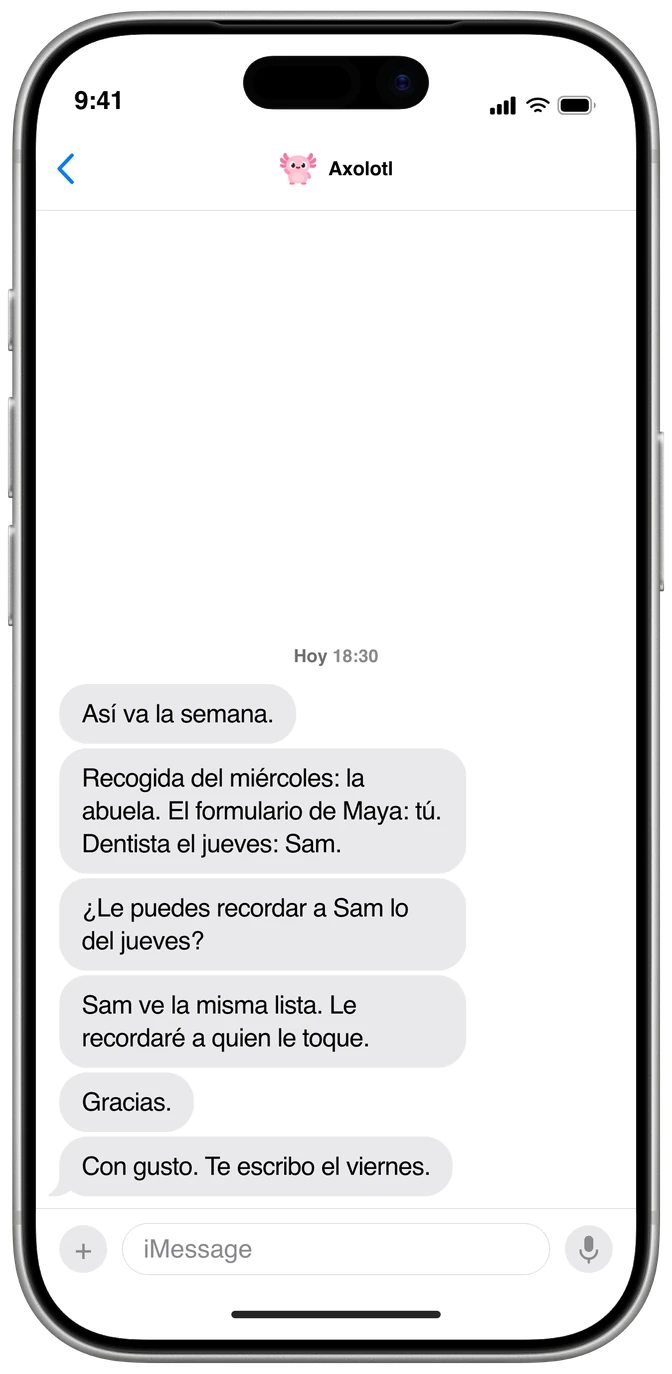
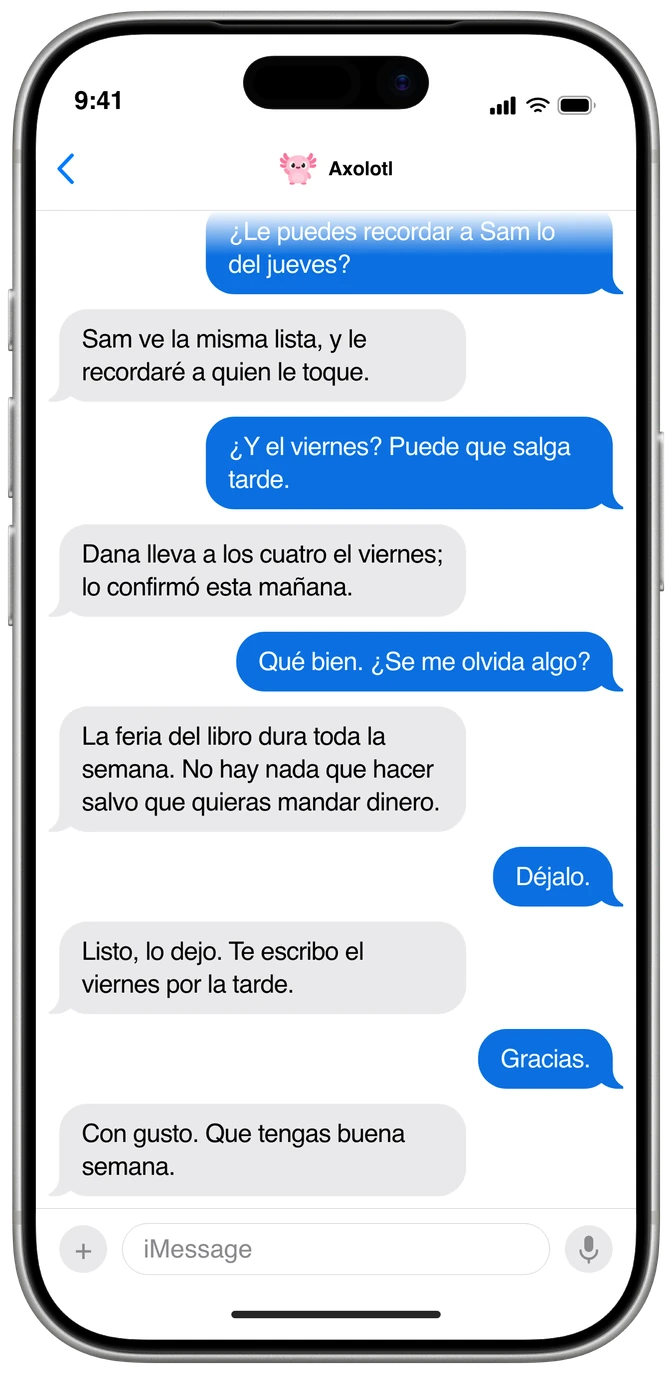
feat(site): fill every phone with a longer thread, anchored like a real chat
Short threads sat at the bottom with white space above them. Now every
conversation is longer than the glass: it is anchored at the bottom, so the
OLDEST messages are the ones off-screen, and the top edge is feathered so the
cut reads as a conversation continuing above rather than a clipped bubble.

The build's fit gate is inverted to match: it used to fail on overflow, and
now fails when a thread is too SHORT to fill the screen.

Every thread roughly doubles in length, and the parent now drives each one —
asking, deciding, and answering — with Axolotl doing the work.

Also fixes a real direction bug this surfaced: the hero and week threads
write outgoing turns as `{ out: 'text' }`, but the renderer only tested
`out === true`, so the parent's own replies rendered grey and left-aligned
instead of blue and right. All three outgoing shapes now read correctly.

Regenerate the four pages, all ten device renders and the lock file.

diff --git a/public/es.html b/public/es.html
@@ -75,7 +75,7 @@
           <div class="hero-phone-wrap">
             <img
               class="hero-phone"
-              src="/hero-phone-es.webp?v=c1bab12ebd94290a"
+              src="/hero-phone-es.webp?v=7142ff964b1a324e"
               width="328"
               height="670"
               alt="Conversación de texto en un teléfono. Axolotl dice que llegaron ocho correos y que dos cosas necesitan a la familia. La familia, en juntas todo el día, le pide a Axolotl que se encargue. Axolotl llenó el formulario de excursión de Maya y lo envía con el visto bueno de la familia, luego confirma que Lincoln lo tiene, referencia K-1042, y que la abuela cubre la salida temprana del miércoles."
@@ -124,10 +124,10 @@
             <h3>Días libres y salidas tempranas</h3>
             <img
               class="week-shot"
-              src="/week-1-es.webp?v=c1bab12ebd94290a"
+              src="/week-1-es.webp?v=7142ff964b1a324e"
               width="336"
               height="687"
-              alt="Una conversación de texto con Axolotl: Días libres y salidas tempranas. Axolotl: Salió el calendario del distrito. Hay una cosa que necesita tu atención. Axolotl: El miércoles la salida es a la 1:20: los niños salen tres horas antes. Tú: Ese día tengo reuniones hasta las 3. Axolotl: La abuela está libre. ¿Quieres que le pregunte? Tú: Sí, por favor. Axolotl: Dijo que sí. Leo está cubierto el miércoles a la 1:20. Esperando tu sí"
+              alt="Una conversación de texto con Axolotl: Días libres y salidas tempranas. Axolotl: Salió el calendario del distrito. El miércoles la salida es a la 1:20. Tú: No puedo recogerlos, tengo reuniones hasta las 3. Axolotl: La abuela está libre. ¿Quieres que le pregunte? Tú: Sí, por favor. Axolotl: Dijo que sí. Leo está cubierto el miércoles a la 1:20. Tú: ¿Y Maya? Está en el otro plantel. Axolotl: Le pregunté a Dana: puede recoger a Maya de camino. Tú: Perfecto. Gracias. Axolotl: Los dos nombres están en la lista de recogida y la oficina ya sabe. Tú: ¿Eso cubre también el jueves? Axolotl: El jueves es un día normal. Estás libre hasta el viernes. Esperando tu sí"
               loading="lazy"
               decoding="async"
             />
@@ -136,10 +136,10 @@
             <h3>Cambios del mismo día</h3>
             <img
               class="week-shot"
-              src="/week-2-es.webp?v=c1bab12ebd94290a"
+              src="/week-2-es.webp?v=7142ff964b1a324e"
               width="336"
               height="687"
-              alt="Una conversación de texto con Axolotl: Cambios del mismo día. Axolotl: Lincoln acaba de escribir. Hoy salen al mediodía. Axolotl: Faltan doce minutos. Tú: No puedo salir. Tengo reuniones hasta las 3. Axolotl: La abuela es la primera en tu lista de respaldo. ¿Quieres que le pregunte? Tú: Sí, por favor. Axolotl: Ya los tiene. Le avisé a la oficina que están cubiertos. Esperando tu sí"
+              alt="Una conversación de texto con Axolotl: Cambios del mismo día. Axolotl: Lincoln acaba de escribir. Hoy salen al mediodía. Axolotl: Faltan doce minutos. Tú: No puedo salir. Tengo reuniones hasta las 3. Axolotl: La abuela es la primera en tu lista de respaldo. ¿Quieres que le pregunte? Tú: Sí, por favor, ya. Axolotl: Ya los tiene. Le avisé a la oficina que están cubiertos. Tú: ¿Le dijiste a Leo? Axolotl: Le escribí a su maestra. Ella lo lleva a la oficina al mediodía. Tú: Gracias. Qué rápido. Axolotl: La abuela te escribe cuando estén en casa. Axolotl: Voy a seguir los mensajes de la escuela por si algo más se mueve. Esperando tu sí"
               loading="lazy"
               decoding="async"
             />
@@ -148,10 +148,10 @@
             <h3>Los pendientes pequeños</h3>
             <img
               class="week-shot"
-              src="/week-3-es.webp?v=c1bab12ebd94290a"
+              src="/week-3-es.webp?v=7142ff964b1a324e"
               width="336"
               height="687"
-              alt="Una conversación de texto con Axolotl: Los pendientes pequeños. Axolotl: Tres cosas esta semana. Axolotl: El jueves es el día de pijama, el formulario de la excursión vence el viernes, y Leo necesita una nota de ausencia. Tú: El lunes tiene dentista en la mañana. Axolotl: La nota de ausencia está lista y el formulario está lleno. Responde SÍ para enviar los dos. Tú: Sí Axolotl: Los dos enviados. La oficina confirmó. Esperando tu sí"
+              alt="Una conversación de texto con Axolotl: Los pendientes pequeños. Axolotl: Tres cosas esta semana: el jueves es el día de pijama, el formulario de la excursión vence el viernes, y Leo necesita una nota de ausencia. Tú: El lunes tiene dentista en la mañana. Axolotl: Entonces escribo la nota de ausencia para el lunes y lleno el formulario. Tú: ¿Necesitas algo de mí? Axolotl: Solo un sí. Lo demás ya lo tengo. Axolotl: Listo para enviar: la nota de ausencia y el formulario de Maya. Tú: Sí Axolotl: Los dos enviados. La oficina confirmó que los tiene. Tú: ¿Y el día de pijama? Axolotl: Nada que hacer: solo va en pijama. Te recuerdo el jueves en la mañana. Esperando tu sí"
               loading="lazy"
               decoding="async"
             />
@@ -160,10 +160,10 @@
             <h3>Quién se encarga</h3>
             <img
               class="week-shot"
-              src="/week-4-es.webp?v=c1bab12ebd94290a"
+              src="/week-4-es.webp?v=7142ff964b1a324e"
               width="336"
               height="687"
-              alt="Una conversación de texto con Axolotl: Quién se encarga. Axolotl: Así va la semana. Axolotl: Recogida del miércoles: la abuela. El formulario de Maya: tú. Dentista el jueves: Sam. Tú: ¿Le puedes recordar a Sam lo del jueves? Axolotl: Sam ve la misma lista. Le recordaré a quien le toque. Tú: Gracias. Axolotl: Con gusto. Te escribo el viernes. Recordatorio puesto"
+              alt="Una conversación de texto con Axolotl: Quién se encarga. Axolotl: Así va la semana. Axolotl: Recogida del miércoles: la abuela. El formulario de Maya: tú. Dentista el jueves: Sam. Tú: ¿Le puedes recordar a Sam lo del jueves? Axolotl: Sam ve la misma lista, y le recordaré a quien le toque. Tú: ¿Y el viernes? Puede que salga tarde. Axolotl: Dana lleva a los cuatro el viernes; lo confirmó esta mañana. Tú: Qué bien. ¿Se me olvida algo? Axolotl: La feria del libro dura toda la semana. No hay nada que hacer salvo que quieras mandar dinero. Tú: Déjalo. Axolotl: Listo, lo dejo. Te escribo el viernes por la tarde. Tú: Gracias. Axolotl: Con gusto. Que tengas buena semana. Recordatorio puesto"
               loading="lazy"
               decoding="async"
             />
@@ -245,7 +245,7 @@
           <div class="phone-tilt">
             <img
               class="phone-shot"
-              src="/phone-es.webp?v=c1bab12ebd94290a"
+              src="/phone-es.webp?v=7142ff964b1a324e"
               width="328"
               height="670"
               alt="Conversación de texto en un teléfono: Axolotl dice que Leo necesita un examen físico y uno dental antes del 15 de octubre. La familia le pide que se encargue. Axolotl encuentra una cita en la red, llena los dos formularios y muestra los datos listos para enviar. La familia responde Sí, y Axolotl confirma que la Primaria Lincoln lo aceptó, referencia K-1042."
@@ -315,7 +315,7 @@
           <figure class="circles-shot">
             <img
               class="phone-shot"
-              src="/circles-es.webp?v=c1bab12ebd94290a"
+              src="/circles-es.webp?v=7142ff964b1a324e"
               width="328"
               height="670"
               alt="Ejemplo de chat grupal en Mensajes. La familia dice que los dos están atorados el miércoles por la salida temprana y pide ayuda. Axolotl reporta que Dana está libre el miércoles y puede llevar a los cuatro niños; Dana acepta si alguien cubre su recogida del viernes, Sam toma el viernes, y Axolotl confirma el plan: Dana el miércoles, Sam el viernes."

diff --git a/public/index.html b/public/index.html
@@ -75,7 +75,7 @@
           <div class="hero-phone-wrap">
             <img
               class="hero-phone"
-              src="/hero-phone-en.webp?v=c1bab12ebd94290a"
+              src="/hero-phone-en.webp?v=7142ff964b1a324e"
               width="328"
               height="670"
               alt="Text thread on a phone. Axolotl says eight school emails came in and two things need the parent. The parent, in meetings all day, asks Axolotl to deal with them. Axolotl has filled in Maya’s field trip form and sends it on the parent’s go-ahead, then confirms Lincoln has it, reference K-1042, and that Grandma is covering Wednesday’s early release."
@@ -124,10 +124,10 @@
             <h3>Days off and early releases</h3>
             <img
               class="week-shot"
-              src="/week-1-en.webp?v=c1bab12ebd94290a"
+              src="/week-1-en.webp?v=7142ff964b1a324e"
               width="336"
               height="687"
-              alt="A text conversation with Axolotl: Days off and early releases. Axolotl: The district calendar came out. One thing in it needs you. Axolotl: Wednesday is early release at 1:20 — the kids are out three hours early. You: I have meetings until 3 that day. Axolotl: Grandma is free. Want me to ask her? You: Please. Axolotl: She said yes. Leo is covered at 1:20 on Wednesday. Waiting for your yes"
+              alt="A text conversation with Axolotl: Days off and early releases. Axolotl: The district calendar came out. Wednesday is early release at 1:20. You: I can’t get them — I’m in meetings until 3. Axolotl: Grandma is free. Want me to ask her? You: Please. Axolotl: She said yes. Leo is covered at 1:20 on Wednesday. You: What about Maya? She’s at the other campus. Axolotl: I asked Dana — she can pick Maya up on her way. You: Perfect. Thank you. Axolotl: Both names are on the pickup list and the office knows. You: Does that cover Thursday too? Axolotl: Thursday is a normal day. You’re clear until Friday. Waiting for your yes"
               loading="lazy"
               decoding="async"
             />
@@ -136,10 +136,10 @@
             <h3>Same-day changes</h3>
             <img
               class="week-shot"
-              src="/week-2-en.webp?v=c1bab12ebd94290a"
+              src="/week-2-en.webp?v=7142ff964b1a324e"
               width="336"
               height="687"
-              alt="A text conversation with Axolotl: Same-day changes. Axolotl: Lincoln just texted. Dismissal at noon today. Axolotl: That’s twelve minutes from now. You: I can’t leave, I’m in meetings until 3. Axolotl: Grandma is first on your backup list. Want me to ask her? You: Yes, please. Axolotl: She’s got them. I told the office they’re covered. Waiting for your yes"
+              alt="A text conversation with Axolotl: Same-day changes. Axolotl: Lincoln just texted. Dismissal at noon today. Axolotl: That’s twelve minutes from now. You: I can’t leave. I’m in meetings until 3. Axolotl: Grandma is first on your backup list. Want me to ask her? You: Yes, please — go. Axolotl: She’s got them. I told the office the kids are covered. You: Did you tell Leo? Axolotl: I texted his teacher. She’ll walk him to the office at noon. You: Thank you. That was fast. Axolotl: Grandma will text you when they’re home. Axolotl: I’ll keep an eye on the school’s messages in case anything else moves. Waiting for your yes"
               loading="lazy"
               decoding="async"
             />
@@ -148,10 +148,10 @@
             <h3>The small asks</h3>
             <img
               class="week-shot"
-              src="/week-3-en.webp?v=c1bab12ebd94290a"
+              src="/week-3-en.webp?v=7142ff964b1a324e"
               width="336"
               height="687"
-              alt="A text conversation with Axolotl: The small asks. Axolotl: Three things this week. Axolotl: Pajama day Thursday, the field trip form due Friday, and Leo needs an absence note. You: He has a dentist appointment Monday morning. Axolotl: The absence note is drafted and the form is filled in. Reply YES to send both. You: Yes Axolotl: Both sent. The office confirmed. Waiting for your yes"
+              alt="A text conversation with Axolotl: The small asks. Axolotl: Three things this week: pajama day Thursday, the field trip form due Friday, and Leo needs an absence note. You: He has a dentist appointment Monday morning. Axolotl: Then I’ll write the absence note for Monday and fill in the form. You: Do you need anything from me? Axolotl: Just a yes. Everything else I have. Axolotl: Ready to send: the absence note and Maya’s field trip form. You: Yes Axolotl: Both sent. The office confirmed they have them. You: What about pajama day? Axolotl: Nothing to do — he just wears pajamas. I’ll remind you Thursday morning. Waiting for your yes"
               loading="lazy"
               decoding="async"
             />
@@ -160,10 +160,10 @@
             <h3>Who&#39;s got it</h3>
             <img
               class="week-shot"
-              src="/week-4-en.webp?v=c1bab12ebd94290a"
+              src="/week-4-en.webp?v=7142ff964b1a324e"
               width="336"
               height="687"
-              alt="A text conversation with Axolotl: Who&#39;s got it. Axolotl: Here’s who’s on what this week. Axolotl: Wednesday pickup: Grandma. Maya’s form: you. Dentist Thursday: Sam. You: Can you remind Sam about Thursday? Axolotl: Sam sees the same list. I’ll remind whoever’s on it. You: Thank you. Axolotl: Happy to. I’ll check in Friday. Reminder set"
+              alt="A text conversation with Axolotl: Who&#39;s got it. Axolotl: Here’s who’s on what this week. Axolotl: Wednesday pickup: Grandma. Maya’s form: you. Dentist Thursday: Sam. You: Can you remind Sam about Thursday? Axolotl: Sam sees the same list, and I’ll remind whoever’s on it. You: What about Friday? I might be late. Axolotl: Dana has all four on Friday — she confirmed this morning. You: Great. Anything I’m forgetting? Axolotl: The book fair runs all week. No action unless you want to send money. You: Skip it. Axolotl: Skipped. I’ll check in Friday afternoon. You: Thanks. Axolotl: Anytime. Have a good week. Reminder set"
               loading="lazy"
               decoding="async"
             />
@@ -245,7 +245,7 @@
           <div class="phone-tilt">
             <img
               class="phone-shot"
-              src="/phone-en.webp?v=c1bab12ebd94290a"
+              src="/phone-en.webp?v=7142ff964b1a324e"
               width="328"
               height="670"
               alt="Text conversation on a phone: Axolotl says Leo needs a physical and a dental check on file by October 15. The parent asks Axolotl to sort it out. Axolotl finds an in-network appointment, fills in both forms, and shows the ready-to-send details. The parent replies Yes, and Axolotl confirms Lincoln Elementary accepted it, reference K-1042."
@@ -315,7 +315,7 @@
           <figure class="circles-shot">
             <img
               class="phone-shot"
-              src="/circles-en.webp?v=c1bab12ebd94290a"
+              src="/circles-en.webp?v=7142ff964b1a324e"
               width="328"
               height="670"
               alt="Example group chat in the Messages app. The parent says they are both stuck on Wednesday&#39;s early release and asks for help. Axolotl reports that Dana is free Wednesday and can take all four kids; Dana agrees if someone covers her Friday pickup, Sam takes Friday, and Axolotl confirms the plan — Dana Wednesday, Sam Friday."

diff --git a/tools/site/phone-screen.html b/tools/site/phone-screen.html
@@ -138,10 +138,15 @@
 
       /* ── thread ─────────────────────────────────────────────────────────── */
       .thread {
+        position: relative;
         flex: 1 1 auto;
         min-height: 0;
         display: flex;
         flex-direction: column;
+        /* A real conversation is anchored at the bottom: when it is taller than
+           the glass, the OLDEST messages are the ones off-screen, clipped above
+           the top edge rather than leaving a white gap below the header. */
+        justify-content: flex-end;
         gap: 10px;
         margin: 0;
         padding: 12px 16px 8px;
@@ -149,10 +154,18 @@
         overflow: hidden;
       }
 
-      /* A conversation shorter than the screen sits at the bottom, just above the
-         composer, the way iOS anchors it. */
-      .thread > :first-child {
-        margin-top: auto;
+      /* The cut at the top edge is feathered, so a clipped bubble reads as a
+         conversation continuing above rather than a rendering artifact. */
+      .thread::before {
+        content: "";
+        position: absolute;
+        top: 0;
+        left: 0;
+        right: 0;
+        height: 30px;
+        z-index: 2;
+        pointer-events: none;
+        background: linear-gradient(to bottom, #fff 0%, rgba(255, 255, 255, 0) 100%);
       }
 
       .meta {
@@ -427,10 +440,19 @@
         return el;
       };
 
+      // Outgoing turns are written three ways across the strings: `{ out: 'text' }`
+      // in the hero and the week threads, `{ kind: 'out', text }` in the consent
+      // loop, and `{ from: 'You', out: true, text }` in the group chat. All three
+      // have to read as the parent's blue, right-aligned bubble.
+      const isOutTurn = (turn) =>
+        turn.kind === 'out' ||
+        turn.out === true ||
+        (turn.in === undefined && typeof turn.out === 'string');
+
       // One turn -> one row. `from` is set only in a group chat, where an
       // incoming message carries the sender's name and initials.
       const turnRow = (turn, from) => {
-        const out = turn.out === true || turn.kind === 'out';
+        const out = isOutTurn(turn);
         const text = turn.text ?? turn.in ?? turn.out ?? '';
         const li = document.createElement('li');
         li.className = `row ${out ? 'out' : 'in'}`;
@@ -454,7 +476,7 @@
 
       const renderThread = (items, { group = false } = {}) => {
         for (const turn of items) {
-          const out = turn.out === true || turn.kind === 'out';
+          const out = isOutTurn(turn);
           thread.append(turnRow(turn, group && !out ? (turn.from ?? 'Axolotl') : undefined));
         }
       };
@@ -506,10 +528,10 @@
         }
       });
 
-      // Report whether the staged thread fits the screen. The build fails on
-      // overflow rather than shipping a clipped screenshot. The height is the
-      // sum of the children rather than scrollHeight: the auto margin that
-      // bottom-anchors a short thread would otherwise hide the real slack.
+      // The screen must be FILLED: a thread shorter than the glass leaves a white
+      // gap under the header. Overflow is fine — the oldest messages sit above
+      // the glass, feathered — so the build fails only when there is not enough
+      // conversation to fill the screen.
       const style = getComputedStyle(thread);
       const gap = parseFloat(style.rowGap) || 0;
       const kids = [...thread.children];
@@ -520,7 +542,7 @@
       const inner =
         thread.clientHeight - parseFloat(style.paddingTop) - parseFloat(style.paddingBottom);
       document.documentElement.dataset.fit =
-        content <= inner ? 'ok' : `overflow:${(content - inner).toFixed(1)}`;
+        content >= inner ? 'ok' : `short:${(inner - content).toFixed(1)}`;
       document.documentElement.dataset.measured = `${content.toFixed(1)}/${inner.toFixed(1)}`;
     </script>
   </body>
